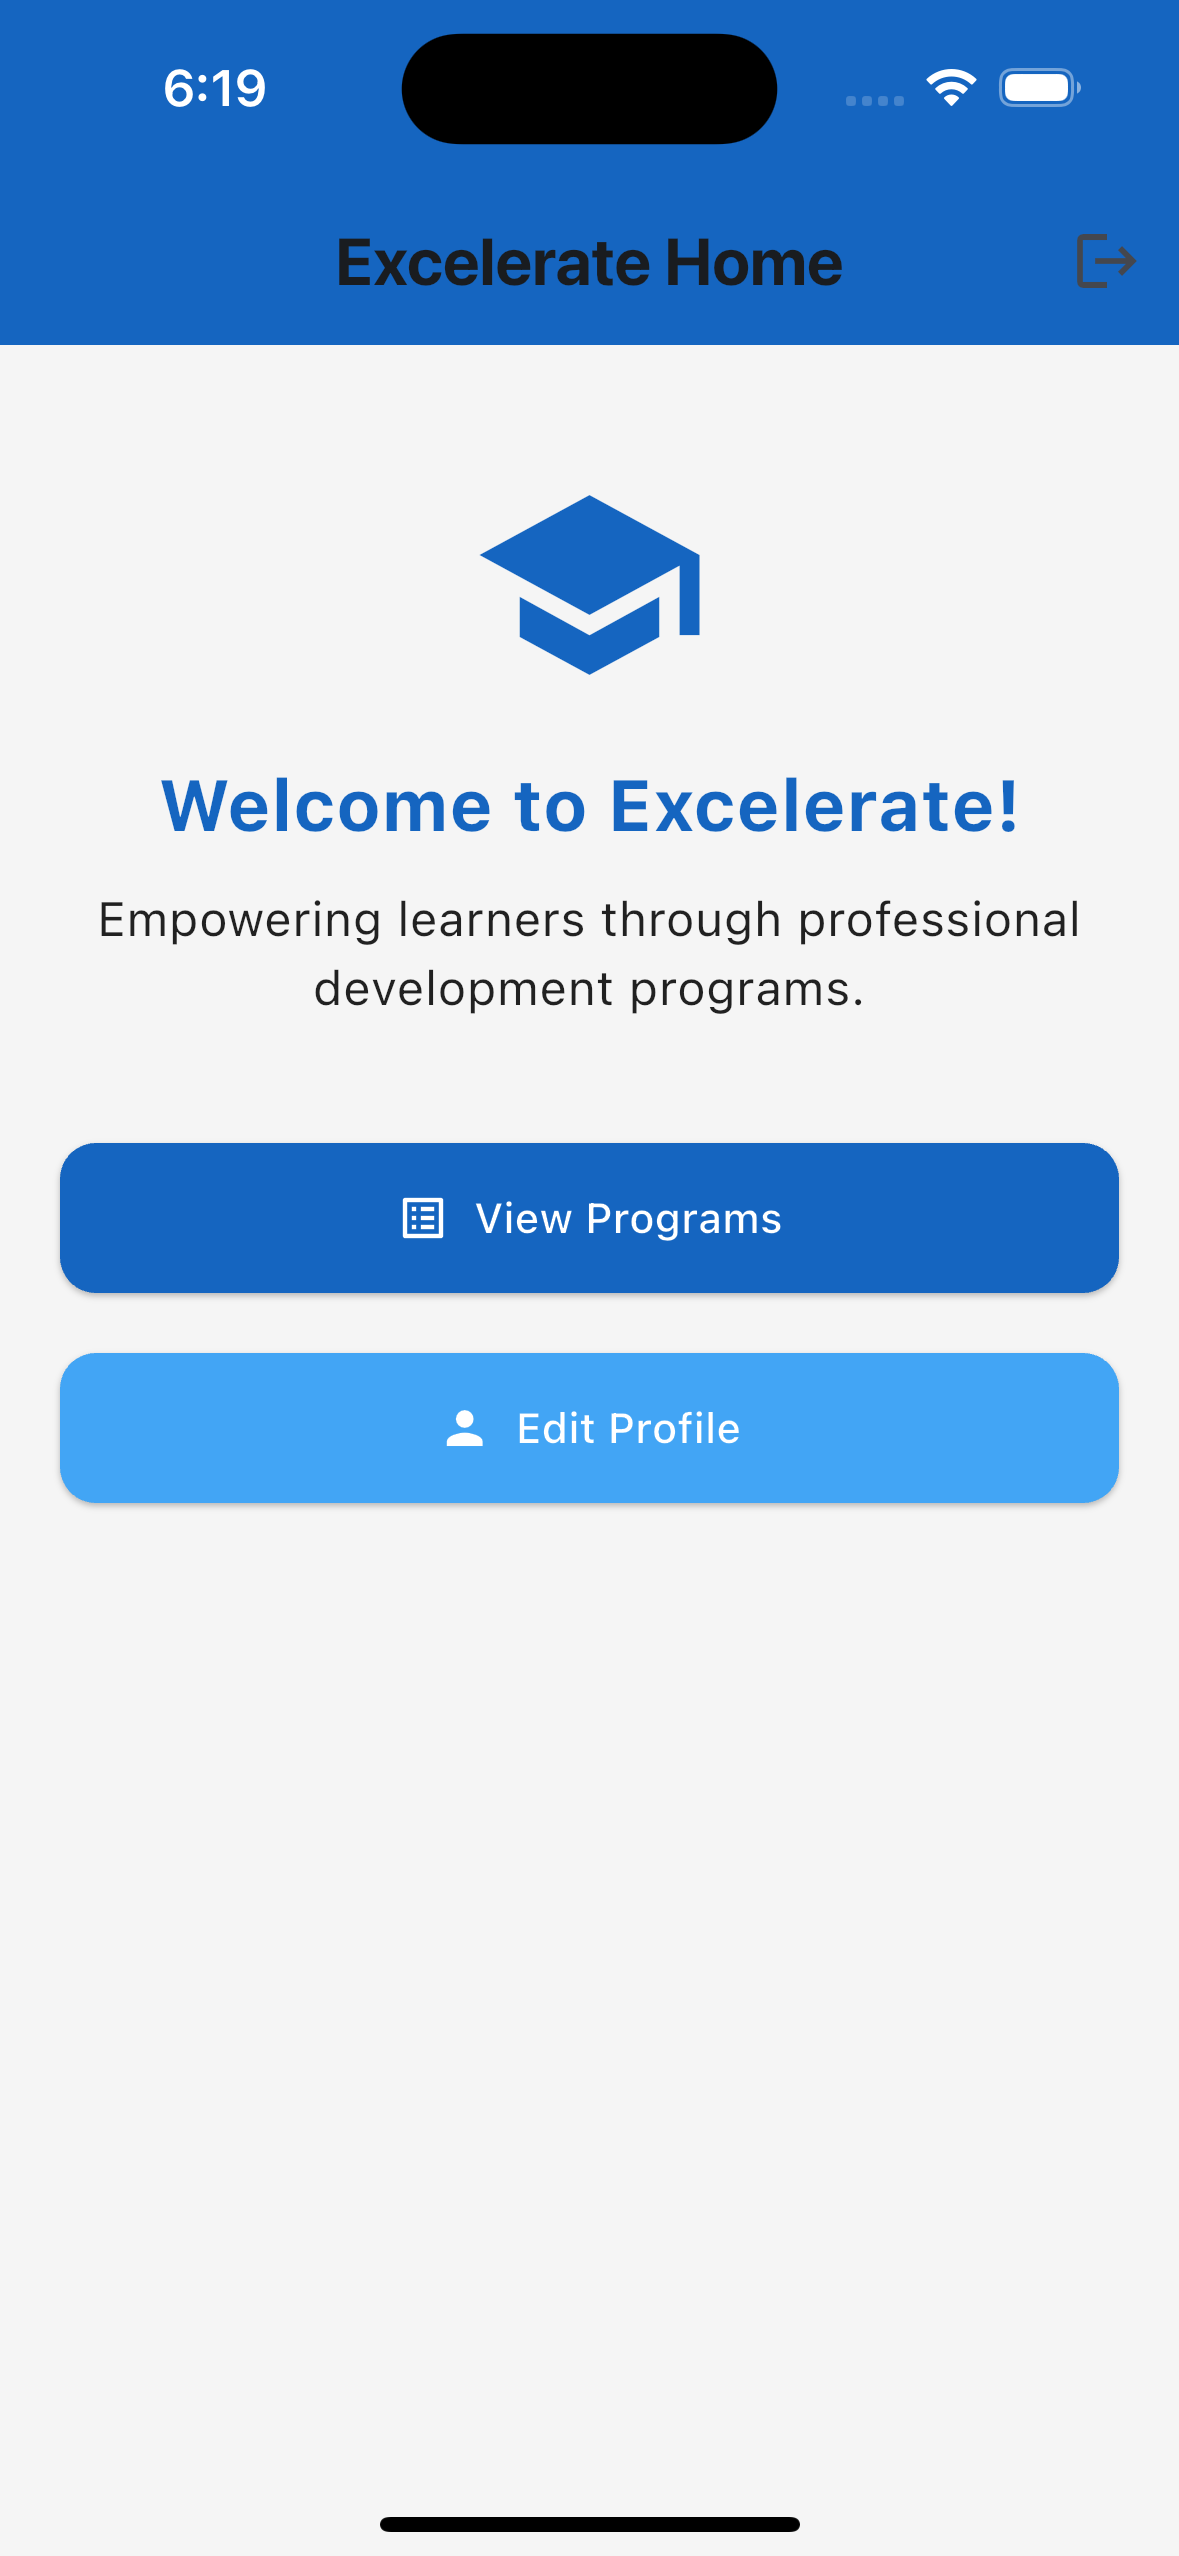
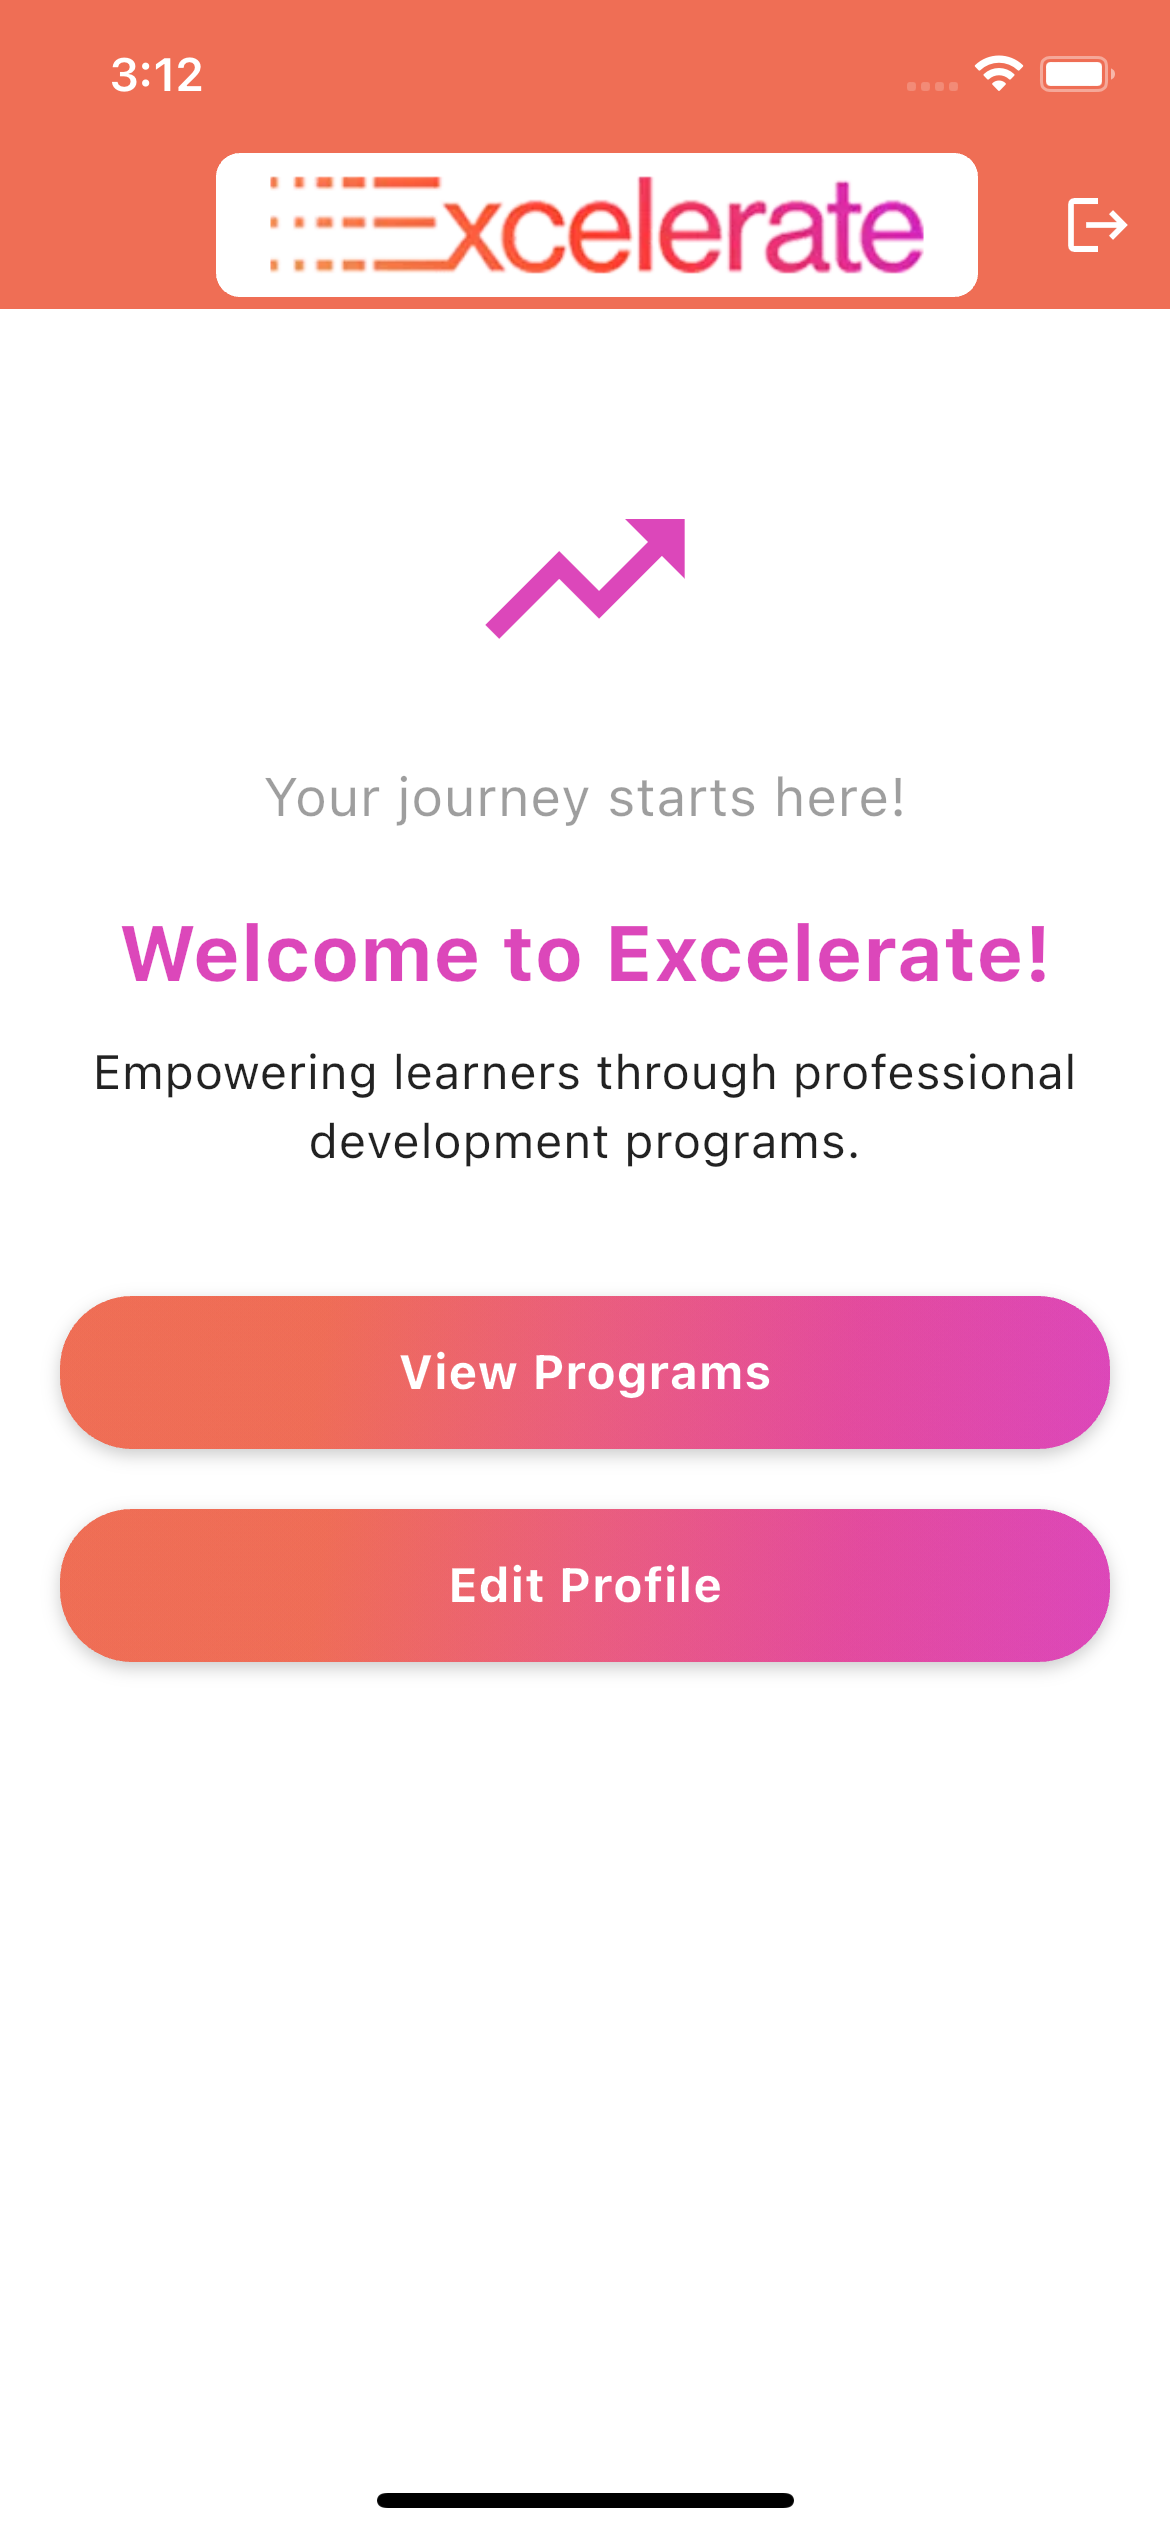
Connected program listing to API, added feedback & registration forms with validation, updated screenshots

diff --git a/README.md b/README.md
@@ -1,4 +1,4 @@
-# 🚀 Excellerate App
+# 🚀 Excelerate App
 
 A cross-platform mobile application built using **Flutter** and **Dart**, developed as part of the *Excelerate Internship Program*.  
 The app focuses on creating a clean, branded, and interactive experience — following the provided wireframes and color theme.
@@ -7,11 +7,14 @@ The app focuses on creating a clean, branded, and interactive experience — fol
 
 ## 🧩 Features Implemented
 
+✅ **Landing Page / Launch Screen** – Initial welcome screen shown when the app starts.  
 ✅ **Login Screen** – Allows users to sign in with email and password.  
 ✅ **Signup Screen** – Enables new users to register and agree to terms.  
 ✅ **Home Screen** – Base navigation screen leading to the program listing.  
-✅ **Program Listing Screen** – Displays a list of available programs.  
-✅ **Program Details Screen** – Shows detailed information for a selected program.  
+✅ **Program Listing Screen** – Now fetches data dynamically from a **mock API/JSON** instead of hardcoded text.  
+✅ **Program Details Screen** – Shows detailed information for a selected program with enrollment functionality.  
+✅ **Feedback Form** – Added a working feedback form with **validation** (name, email, message) and mock submission.  
+✅ **Registration Form** – Validated email and password fields added for registration.
 
 ---
 
@@ -19,10 +22,11 @@ The app focuses on creating a clean, branded, and interactive experience — fol
 
 1. **Launch Screen → Login Screen**  
 2. **Login → Home Screen**  
-3. **Home → Program Listing Screen**  
-4. **Program Listing → Program Details Screen**
+3. **Home → Program Listing Screen** (API connected)  
+4. **Program Listing → Program Details Screen**  
+5. **Program Details → Feedback Form** (validated form submission)
 
-All screens are fully functional and connected using Flutter’s `Navigator`.
+All screens are fully functional, connected using Flutter’s `Navigator`, and fetch real/mock data where required.
 
 ---
 
@@ -30,7 +34,7 @@ All screens are fully functional and connected using Flutter’s `Navigator`.
 
 The app follows the **Excelerate theme**:
 - Background color: Light neutral tone  
-- Primary buttons: Deep blue with contrasting white text  
+- Primary buttons: Gradient buttons consistent across the app  
 - Font: Clean, readable sans-serif  
 - Consistent padding, rounded corners, and alignment throughout the UI  
 
@@ -38,7 +42,9 @@ The app follows the **Excelerate theme**:
 
 ## 📱 Screenshots
 
-Below are screenshots of the working UI prototype:
+### 🏁 Landing Page
+<img src="assets/images/landing_page.png" alt="Landing Page" width="250"/>  
+*Welcome screen displayed when the app starts.*
 
 ### 🔐 Login Screen
 <img src="assets/images/login_screen.png" alt="Login Screen" width="250"/>
@@ -49,13 +55,17 @@ Below are screenshots of the working UI prototype:
 ### 🏠 Home Screen
 <img src="assets/images/home_screen.png" alt="Home Screen" width="250"/>
 
-### 📋 Program Listing Screen
-<img src="assets/images/program_listing_screen.png" alt="Program Listing Screen" width="250"/>
+### 📋 Program Listing Screen (API Connected)
+<img src="assets/images/program_listing.png" alt="Program Listing Screen" width="250"/>  
+*Displays live data fetched from a mock API.*
 
 ### 📄 Program Details Screen
-<img src="assets/images/program_details_screen.png" alt="Program Details Screen" width="250"/>
+<img src="assets/images/program_details.png" alt="Program Details Screen" width="250"/>  
+*Shows dynamic program details and enrollment confirmation.*
 
-
+### 📝 Feedback Form
+<img src="assets/images/feedback_form.png" alt="Feedback Form" width="250"/>  
+*Validated form with mock submission and success feedback.*
 
 ---
 
@@ -75,3 +85,21 @@ Below are screenshots of the working UI prototype:
    ```bash
    git clone https://github.com/kingdivyesh/excelerate_app.git
    cd excelerate_app
+
+2. Get dependencies :
+   flutter pub get
+
+3. Run the app :
+   flutter run
+
+## 📝 Week 3 Updates
+
+- **Program Listing & Details screens** now fetch data dynamically from a mock API/JSON.  
+- **Feedback Form** added with validation (name, email, message) and mock submission.  
+- **Registration Form** added with email and password validation.  
+- **Loading & Error Handling**:  
+  - CircularProgressIndicator shown while fetching API data.  
+  - Friendly error messages displayed if API fails.  
+  - Feedback form disables submit button while submitting and shows success/failure messages.  
+- **Enrollment Flow**: “Enroll Now” button shows success dialog and navigates to feedback form.
+
